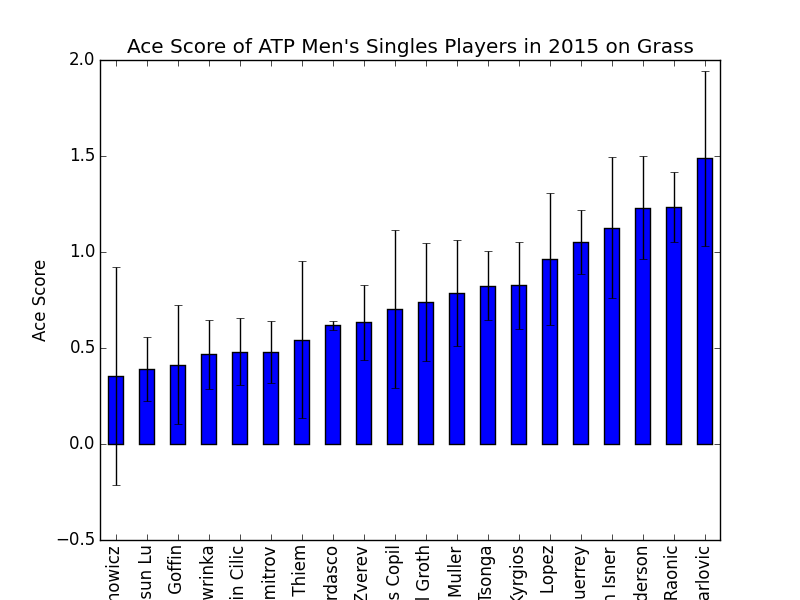
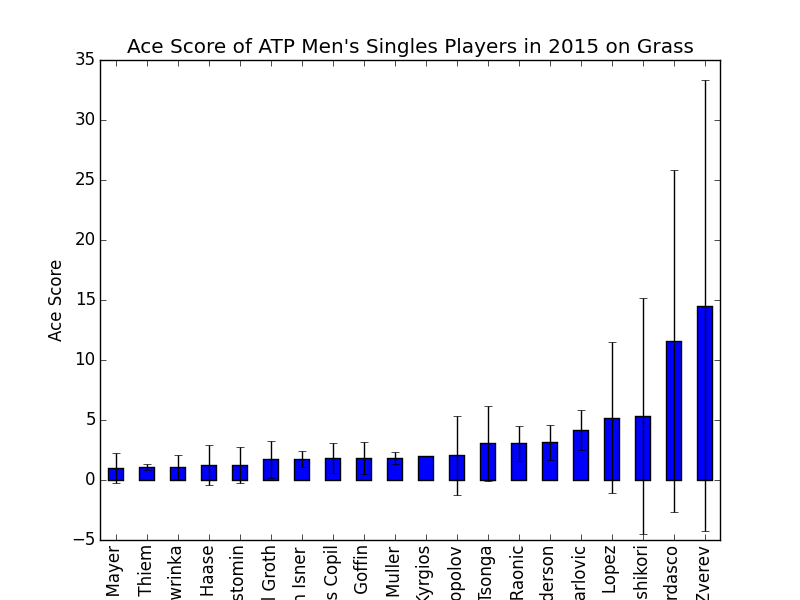
Changed the measure
Changed the measure from x-N to a percentage (x-N)/N. Still strange
because some scores are large with large variance.

diff --git a/BestServeInTennis.py b/BestServeInTennis.py
@@ -36,7 +36,9 @@ def unweightedScore(df):
     score_df = simple_df.groupby('name').mean().sort(['avgAGm'])
     print "Simple analysis of the most aces on "+Surf+" courts."
     print score_df.tail()
+    print score_df.head()    
     return score_df
+
 
 # More advanced functions
 def normalizePlayers(df):
@@ -62,7 +64,7 @@ def acesDF(df):
     
 def weightedScore(aces_df):
     scores_df = aces_df
-    scores_df['ace_score']  = aces_df['w_avgAGm'] - aces_df['N']
+    scores_df['ace_score']  = 1.0*(aces_df['w_avgAGm'] - aces_df['N'])/aces_df['N']
     scores_df_mean = scores_df[['winner_name', 'ace_score']] \
         .groupby(['winner_name']) \
         .mean()
@@ -88,11 +90,8 @@ def plotTopN(df, N):
     plt.savefig('figures\\'+year+'_'+Surf+'.png')
 
 def avgAcesGame(aces_df):
-    scores_df = aces_df
-    scores_df['ace_score']  = aces_df['w_avgAGm'] - aces_df['N']
-    aces_mean = scores_df[['ace_score']].mean()
-    aces_std = scores_df[['ace_score']].std()
-    return aces_mean[0], aces_std[0]
+    aces_mean = aces_df['ace_score'].mean()
+    return aces_mean
     
 # Simple scores
 df = readData(year, Surf)
@@ -104,11 +103,10 @@ df = readData(year, Surf)
 df = avgAcePerGm(df)
 aces_df = acesDF(df)
 scores_df = weightedScore(aces_df)
-print scores_df.tail(4)
+print scores_df.tail(6)
 
 print '\n The average number of aces per game is' 
-print avgAcesGame(aces_df)[0]
-print 'The std is' 
-print avgAcesGame(aces_df)[1] 
+print avgAcesGame(scores_df)
  
 plotTopN(scores_df, 20)
+print scores_df.head(6)
